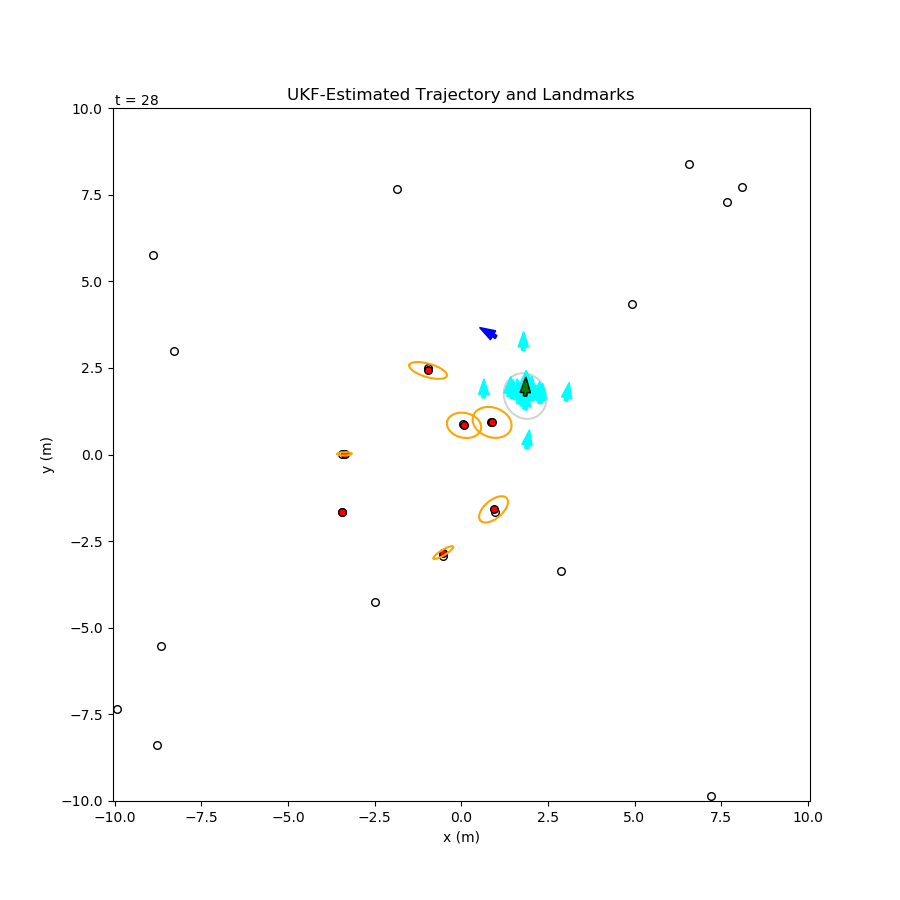
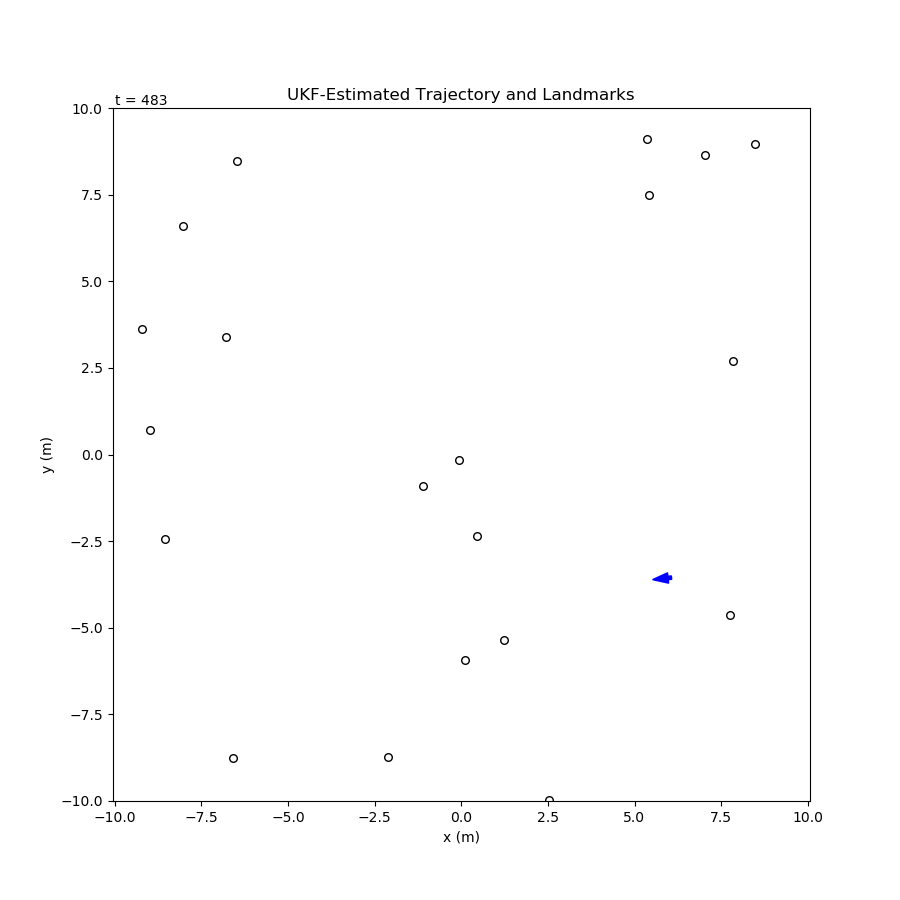
Sort of fix slam part of the UKF. Isolated problem in computations to create C matrix, but can't reproduce the assertion error now. Diff vectors eventually end up as all NaNs for some reason. Performance falls off over time and then shoots off the map.

diff --git a/ekf_ws/src/data_pkg/src/plotting_node.py b/ekf_ws/src/data_pkg/src/plotting_node.py
@@ -117,7 +117,7 @@ def update_plot(filter:str, msg):
         
         ############## UKF SIGMA POINTS ##################
         if filter == "ukf":
-            # TODO make numpy matrix for X instead of dealing with single array.
+            # only show sigma points' veh pose, not landmark info.
             if Config.params["PLOT_UKF_ARROWS"]:
                 # plot as arrows (slow).
                 if "sigma_pts" in plots.keys() and len(plots["sigma_pts"].keys()) > 0:
@@ -125,18 +125,18 @@ def update_plot(filter:str, msg):
                         plots["sigma_pts"][i].remove()
                 plots["sigma_pts"] = {}
                 # draw a pt with arrow for all sigma pts.
-                rospy.logwarn(str(msg.X))
-                for i in range(0, len(msg.X), n):
-                    plots["sigma_pts"][i] = plt.arrow(msg.X[i], msg.X[i+1], Config.params["ARROW_LEN"]*cos(msg.X[i+2]), Config.params["ARROW_LEN"]*sin(msg.X[i+2]), color="cyan", width=0.1)
+                # rospy.logwarn(str(msg.X))
+                for i in range(0, 2*n+1):
+                    plots["sigma_pts"][i] = plt.arrow(msg.X[i*n], msg.X[i*n+1], Config.params["ARROW_LEN"]*cos(msg.X[i*n+2]), Config.params["ARROW_LEN"]*sin(msg.X[i*n+2]), color="cyan", width=0.1)
             else: # just show x,y of pts.
-                X_x = [msg.X[i] for i in range(0,len(msg.X),3)]
-                X_y = [msg.X[i] for i in range(1,len(msg.X),3)]
+                X_x = [msg.X[i*n] for i in range(0,2*n+1)]
+                X_y = [msg.X[i*n+1] for i in range(0,2*n+1)]
                 # remove old points.
                 if "sigma_pts" in plots.keys():
                     plots["sigma_pts"].remove()
                     del plots["sigma_pts"]
                 # plot sigma points.
-                plots["sigma_pts"] = plt.scatter(X_x, X_y, s=30, color="tab:cyan", zorder=1)
+                plots["sigma_pts"] = plt.scatter(X_x, X_y, s=30, color="tab:cyan", zorder=5)
 
     ############## PARTICLE FILTER LOCALIZATION #####################
     elif filter == "pf":

diff --git a/ekf_ws/src/ukf_pkg/src/ukf.cpp b/ekf_ws/src/ukf_pkg/src/ukf.cpp
@@ -255,7 +255,7 @@ void UKF::updateStage(std_msgs::Float32MultiArray::ConstPtr lmMeasMsg) {
                 }
             }
         }
-        
+        // std::cout << "Detected landmark " << id << " at state index " << lm_i << "\n" << std::flush;
         if (!this->ukfSlamMode || lm_i != -1) {
             // localization mode, or the landmark was found in the state.
             //////////// LANDMARK UPDATE ///////////
@@ -299,10 +299,12 @@ void UKF::updateStage(std_msgs::Float32MultiArray::ConstPtr lmMeasMsg) {
             this->C.setZero(n,2);
             for (int i=0; i<this->Wts.rows(); ++i) { //2*n+1
                 this->diff = (this->X_pred.col(i) - this->x_pred);
-                this->diff2 = (this->X_zest.col(i) - this->z_est);
                 // keep angles in range.
                 this->diff(2) = remainder(this->diff(2), 2*pi);
+                std::cout << "diff: " << this->diff << "\n" << std::flush;
+                this->diff2 = (this->X_zest.col(i) - this->z_est);
                 this->diff2(1) = remainder(this->diff2(1), 2*pi);
+                std::cout << "diff2: " << this->diff2 << "\n" << std::flush;
                 // add cross covariance contribution.
                 this->C += this->Wts(i) * this->diff * this->diff2.transpose();
             }
@@ -341,7 +343,7 @@ void UKF::updateStage(std_msgs::Float32MultiArray::ConstPtr lmMeasMsg) {
             // expand the size of X matrix.
             this->X.conservativeResize(n, 1+2*n);
             // expand X_pred in case there's a re-detection also this timestep.
-            this->X_pred.conservativeResize(n+2,2*n+5);
+            this->X_pred.conservativeResize(n,1+2*n);
             // recompute the weights vector at new size.
             this->Wts.setOnes(1+2*n);
             this->Wts *= (1-this->W_0)/(2*n);
